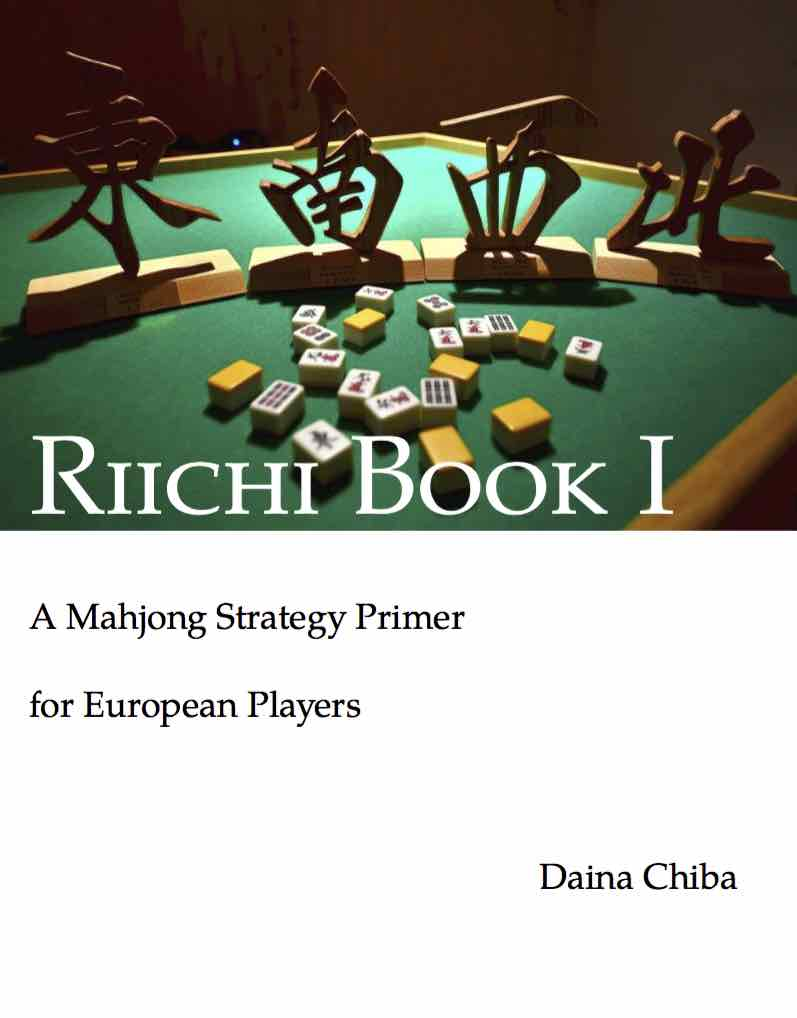
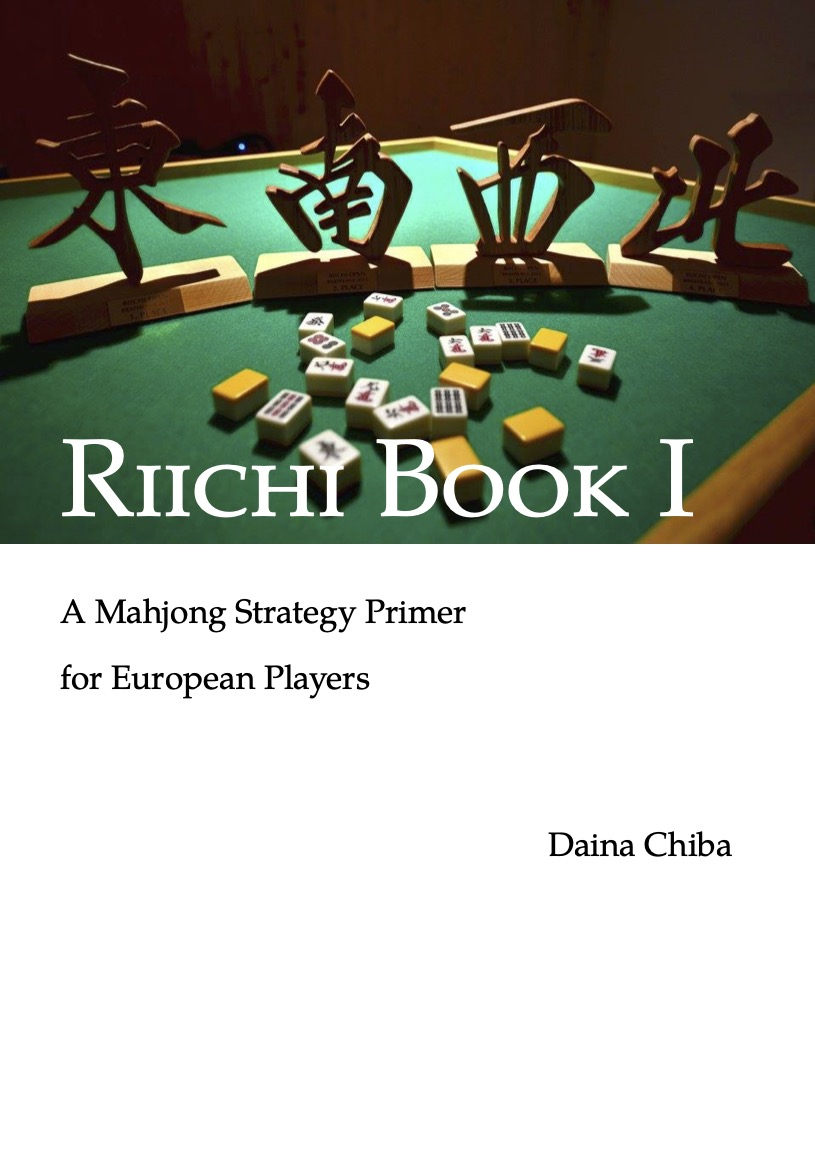
Add Spanish translation download link and cover

diff --git a/index.html b/index.html
@@ -29,8 +29,10 @@
 <div id="content">
   <h1>Riichi Book I</h1>
   <p>
+  <a href="https://github.com/dainachiba/RiichiBooks/raw/master/RiichiBook1.pdf">
   <img style = "max-width:30%; min-width:20%; width:120px; border:0; margin: 1px 1px 5px 5px; float: right;" alt="RiichiBook1-cover" title="RiichiBook1-cover" 
   src="figs/RiichiBook1_cover.jpg" />
+  </a>
   </p>
 
 <p>
@@ -43,7 +45,7 @@ I have completed the first volume so far. <del>The second volume is coming soon 
 border-color: black;background-color: white; min-width:20%; max-width:50%";>
   <p class="booklink">
 <a href="https://github.com/dainachiba/RiichiBooks/raw/master/RiichiBook1.pdf">Download Riichi Book I</a></br>
-	</p>
+  </p>
 <!-- <script type="text/javascript" src="download.php?dsp_count=1"></script> --!>
 </div>
 
@@ -59,7 +61,7 @@ If you find a typo, please let me know <a href="mailto:daina.chiba&#64;gmail.com
   <p class="booklink">
 <a href="download_count/download.php?download=2">Riichi Book II (available early 2017)</a>
 Riichi Book II (available early 2017)
-	</p>
+  </p>
 </br>
 --!>
 
@@ -76,47 +78,75 @@ Riichi Book II (available early 2017)
 I am making my book(s) freely available to any aspiring players. If you'd like to donate a small amount of money, please use the link to the right. All donations will go towards promoting riichi mahjong across the world. 
 </p>
 
-
 <h2>Reviews and mentions</h2>
+
+
 <p>
   Here is a list of reviews and mentions on Book I that I know of. If you know more, 
   please let me know <a href="mailto:daina.chiba&#64;gmail.com">via email</a>. 
 </p>
 
   <p>
+<a href="https://drive.google.com/file/d/18qExAJIxxH27B0326Vo8ZnC6Spz9fRU5/view">
+  <img style = "max-width:30%; min-width:20%; width:120px; border:0; margin: 1px 1px 5px 5px; float: right;" alt="RiichiLibro1-cover" title="RiichiLibro1-cover"
+  src="figs/RiichiLibro1_cover.jpg" />
+</a>
+  </p>
+
+  <p>
   <ul>
-	<li> <a href="https://www.reddit.com/r/Mahjong/comments/3zymud/new_english_riichi_mahjong_strategy_book/">Discussion on the book on Reddit</a>
-	</li>
+  <li> <a href="https://www.reddit.com/r/Mahjong/comments/3zymud/new_english_riichi_mahjong_strategy_book/">Discussion on the book on Reddit</a>
+  </li>
 
     <li> <a href="http://www.mahjongnews.com/en/news/peoplenw/3936-daina-chiba-steps-into-the-limelight">My interview on Mahjong News</a> 
-	</li>
+  </li>
 
     <li> <a href="http://osamuko.com/mahjong-news-20-01-2016/">Osamuko</a> 
-	</li>
+  </li>
 
     <li> <a href="https://xgeomj.wordpress.com/2016/01/29/riichi-book-i-review/">xGeo's Mahjong Blog</a> 
-	</li>
+  </li>
 
     <li> <a href="http://fukuchi.cocolog-nifty.com/blog/2016/01/post-8d1c.html">Makoto Fukuchi's blog (in Japanese)</a> 
-	</li>
+  </li>
 
     <li> <a href="http://blog.tenhou.net/article/171809920.html">Tsuno's blog (in Japanese)</a> 
-	</li>
+  </li>
 
     <li> <a href="http://www.chuuren.fr/livre-daina-chiba-strategie/">Chuuren Potos Marseille (in French)</a> 
-	</li>
+  </li>
 
     <li> <a href="https://riichimahjong.at/wissenswertes/spielregeln/">Austrian Riichi Mahjong Association (in German)</a> 
-	</li>
+  </li>
 
     <li> <a href="https://sgriichimahjong.com/2016/07/03/riichi-mahjong-guide-book/">Playing Riichi Mahjong in Singapore</a> 
-	</li>
+  </li>
 
     <li> <a href="https://ankiweb.net/shared/info/1454045467">Anki Decks based on the book</a> 
-	</li>
+  </li>
 
   </ul>
-	</p>
+
+  </p>
+
+
+
+<h2>Translations</h2>
+
+
+<p>
+A Spanish translation of the book, <a href="https://drive.google.com/file/d/18qExAJIxxH27B0326Vo8ZnC6Spz9fRU5/view">Riichi &ndash; Libro I (Spanish translation)</a>, is available thanks to Joaqu&iacute;n Padilla Rivero.
+</p>
+
+
+<div style = "border-style:solid; border-width:1px; padding: 10px 5px 10px 20px;
+border-color: black;background-color: white; min-width:20%; max-width:50%";>
+  <p class="booklink">
+<a href="https://drive.google.com/file/d/18qExAJIxxH27B0326Vo8ZnC6Spz9fRU5/view">Download Riichi &ndash; Libro I</a></br>
+  </p>
+<!-- <script type="text/javascript" src="download.php?dsp_count=1"></script> --!>
+</div>
+
 
 </div>
 
@@ -129,22 +159,22 @@ I am making my book(s) freely available to any aspiring players. If you'd like t
   <p>
   The original forms of these books are <a href="http://www.latex-project.org/"><span class="LATEX">L<span class="A">A</span><span class="TEX">T<span class="E">E</span>X</span></span></a> source codes. Compiling these <span class="LATEX">L<span class="A">A</span><span class="TEX">T<span class="E">E</span>X</span></span> source codes has the effect of generating a device-independent representation of manuscripts, which can be converted to other formats and printed. The 
 <span class="LATEX">L<span class="A">A</span><span class="TEX">T<span class="E">E</span>X</span></span> sources for the books are available below:
-	</p>
+  </p>
 
   <p>
   <ul>
     <li> <a href="https://github.com/dainachiba/RiichiBooks">GitHub page for Book I</a>
-	</li>
+  </li>
     <li> <a href="https://github.com/dainachiba/dainachiba.github.io/raw/master/RB1/RiichiBook1Sources.zip">Source files for Book I</a> (This may be dated. Please visit the github page above for the up-to-date source files.)
     <!-- <script type="text/javascript" src="download.php?dsp_count=2"></script> --!>
-	</li>
-	<li> <a href="https://github.com/dainachiba/dainachiba.github.io/raw/master/RB1/piemf-2.0.2.tar.bz2">The piemf font package</a> 
-<!--	<script type="text/javascript" src="download.php?dsp_count=3"></script> --!>
-	</li>
+  </li>
+  <li> <a href="https://github.com/dainachiba/dainachiba.github.io/raw/master/RB1/piemf-2.0.2.tar.bz2">The piemf font package</a> 
+<!--  <script type="text/javascript" src="download.php?dsp_count=3"></script> --!>
+  </li>
 <!--    <li> <a href="RiichiBook2.tex">Source code for Book II</a></li> !-->
 <!--    <li> <a href="Figures2.zip">Figures for Book II (zipped archive)</a></li> !-->
   </ul>
-	</p>
+  </p>
 
 <p>
 The <span class="LATEX">L<span class="A">A</span><span class="TEX">T<span class="E">E</span>X</span></span> source files (*.tex) are in Unicode (UTF-8) format. 
@@ -164,11 +194,11 @@ That is, you can freely modify, translate, and redistribute my books for noncomm
 
   <h2>Acknowledgement</h2>
   <p>
-	I am indebted to a lot of friends I have acquainted with through mahjong. In particular, my thanks go to Philipp Martin, Ian Fraser, and Gemma Sakamoto, who have read an earlier draft of the manuscript and gave me feedback and encouragement. Any remaining errors are of course my own.
+  I am indebted to a lot of friends I have acquainted with through mahjong. In particular, my thanks go to Philipp Martin, Ian Fraser, and Gemma Sakamoto, who have read an earlier draft of the manuscript and gave me feedback and encouragement. Any remaining errors are of course my own.
   </p>
 
   <p>
-	The cover photo (&#169; Katar&iacute;na Moz&oacute;v&aacute;) is from <a href="http://riichi.harphield.com/tournament/">the 2015 Bratislava Riichi Open</a>. I thank Katar&iacute;na and <a href="http://riichi.harphield.com/">Riichi Mahjong Slovakia</a> (especially Matej Laba&#353;) for giving me a permission to use it.
+  The cover photo (&#169; Katar&iacute;na Moz&oacute;v&aacute;) is from <a href="http://riichi.harphield.com/tournament/">the 2015 Bratislava Riichi Open</a>. I thank Katar&iacute;na and <a href="http://riichi.harphield.com/">Riichi Mahjong Slovakia</a> (especially Matej Laba&#353;) for giving me a permission to use it.
   </p>
 
   <h2>Updates</h2>
@@ -201,7 +231,7 @@ That is, you can freely modify, translate, and redistribute my books for noncomm
 <!-- footer ================= ================= ================= ================= -->
 <div id="Copyright">
  <address>
-Last updated on 26 March, 2019, &#169; <a href="mailto:daina.chiba&#64;gmail.com">Daina Chiba</a>
+Last updated on 27 January 2026, &#169; <a href="mailto:daina.chiba&#64;gmail.com">Daina Chiba</a>
  </address>
 </div>
 
@@ -209,4 +239,3 @@ Last updated on 26 March, 2019, &#169; <a href="mailto:daina.chiba&#64;gmail.com
 
 </body>
 </html>
-

diff --git a/riichi.css b/riichi.css
@@ -57,6 +57,23 @@ p.author {
 #content h2 {
     font-size:130%;
     color:#CD192A;
+
+    /* Added spacing around section headings */
+    margin: 22px 0 12px 0;  /* space before h2, and space between h2 and following text */
+}
+#content h3{
+    /* Added spacing around subsection headings */
+    margin: 18px 0 10px 0;  /* space before h3, and space between h3 and following text */
+}
+
+/* Ensure the first element after a heading has a bit more breathing room */
+#content h2 + p,
+#content h2 + ul,
+#content h2 + ol,
+#content h3 + p,
+#content h3 + ul,
+#content h3 + ol{
+    margin-top: 0.6em;
 }
 
 p.booklink {
@@ -150,5 +167,3 @@ table td.main {
     padding:12px 30px 0 30px;
     width:100%;
 }
-
-
